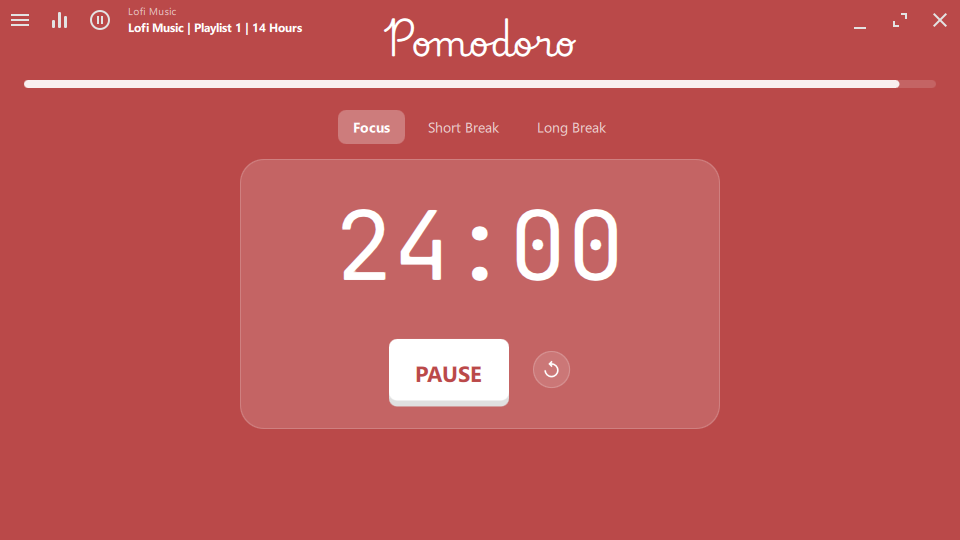
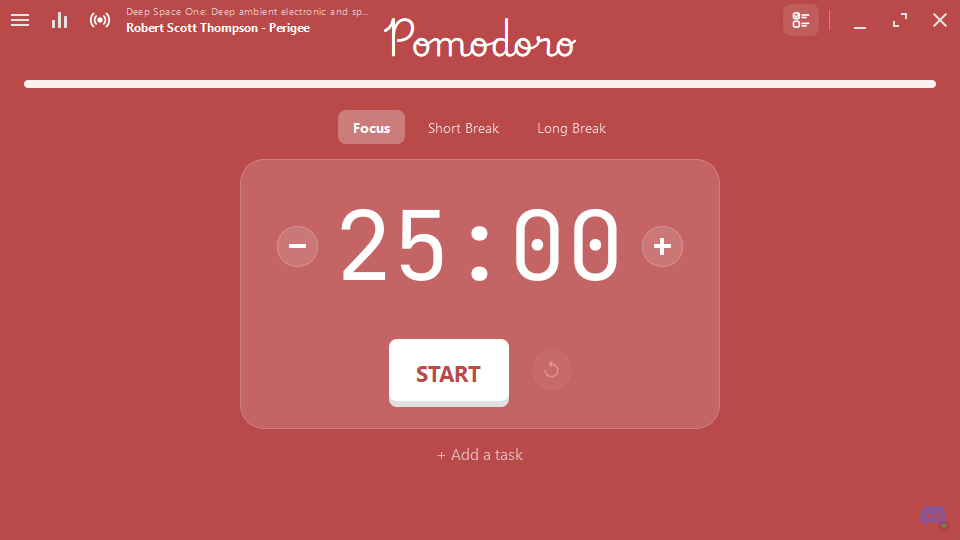
Updating readme

diff --git a/README.md b/README.md
@@ -6,9 +6,47 @@
 
 Built with C++17 and Qt 6 (Qt Quick / QML). One binary, no runtime dependencies beyond Qt.
 
+[![Latest release](https://img.shields.io/github/v/release/elhiba/pomodoro?label=version)](../../releases/latest)
+[![Downloads](https://img.shields.io/github/downloads/elhiba/pomodoro/total)](../../releases)
+[![CI](https://github.com/elhiba/pomodoro/actions/workflows/ci.yml/badge.svg?branch=main)](../../actions/workflows/ci.yml)
+![Platforms](https://img.shields.io/badge/platforms-Windows%20%7C%20Linux%20%7C%20macOS-informational)
+
+**[⬇ Download the latest version](../../releases/latest)**
+
 ![Pomodoro](docs/screenshot.png)
 
 </div>
+
+## What's new
+
+### v1.4.0
+
+- **The app updates itself.** No button to press and no browser: a new release downloads
+  in the background, is checked against its published SHA-256 checksum, and installs as
+  soon as the timer is stopped — never in the middle of a session — then the app reopens.
+  It works for every download: the Windows installer, the portable zip, the AppImage and
+  the macOS app. Pomodoro also looks for updates every six hours while it runs, not only
+  at start-up. (Coming from v1.3.0 or older, install this one update by hand; every
+  update after it is automatic.)
+- **Spotify plays on Linux.** The AppImage brings the sound library the built-in player
+  needs and uses PulseAudio or PipeWire, so it no longer stays silent.
+- **Discord from Flatpak or Snap** is found on Linux, so the Discord status works there too.
+
+### v1.3.0
+
+- Music panel: radio, YouTube and Spotify in one place, with search, playlists, skip and a
+  seek bar with a soft wave. Add your own radio stations.
+- Spotify plays inside the app with a built-in player (Windows and Linux), with Liked
+  Songs, "play next" and a heart to like a song.
+- Discord status showing what the timer is doing.
+- Colours for each session, animated digits (rolling, flip, soft) and a font for the
+  whole app; settings folded into sections.
+- Music follows your default audio output, lowers itself for the alarm, and shows its
+  cover plus next / previous in the system's media controls.
+- An optional task list, a floating mini timer while minimised, session length set right
+  on the home screen, and updates offered from inside the app.
+
+Every release and its full notes: [Releases](../../releases).
 
 ## Features
 
@@ -20,27 +58,40 @@ Built with C++17 and Qt 6 (Qt Quick / QML). One binary, no runtime dependencies 
 - **Task list** (optional) — note what you want to get done, pick the task you are
   working on, and every focus session you finish counts towards it. The current task
   shows under the timer. Turn it off in the settings if you do not want it.
-- **Mini timer** — minimise the window and a small always-on-top timer takes its place;
-  drag it anywhere, click it to come back.
-- **Music while you work**, from the source you prefer:
-  - **Radio** — a built-in list of lo-fi and ambient stations;
-  - **YouTube** — any video, mix or live stream, played as audio through
-    [yt-dlp](https://github.com/yt-dlp/yt-dlp) (the app offers to download it for you);
-  - **Spotify** — connect your account and Pomodoro plays, pauses and shows what is on in
-    your own Spotify app (Spotify allows this on Premium only);
-  - **Link** — any Icecast, Shoutcast or HTTP audio stream.
+- **Mini timer** — minimise the window and a small always-on-top timer takes its place,
+  with the same digit animation as the main one; drag it anywhere, click it to come back.
+  The minimised window can stay out of Alt+Tab.
+- **Music while you work**, from its own panel, with the source you prefer:
+  - **Radio** — a built-in list of lo-fi and ambient stations, plus your own: paste an
+    Icecast, Shoutcast or HTTP stream (or an `.m3u` / `.pls`) and the app checks that it
+    really plays audio and names it before it joins the list;
+  - **YouTube** — search for videos and playlists, or paste any video, mix or live stream,
+    played as audio through [yt-dlp](https://github.com/yt-dlp/yt-dlp) (the app offers to
+    download it for you and keeps it up to date);
+  - **Spotify** — on Windows and Linux the release ships a built-in player, so Spotify
+    plays inside Pomodoro: Liked Songs, picks, playlists and albums you paste, with a
+    queue and a like button. Without it, Pomodoro remote-controls your own Spotify app.
+    Either way Spotify only allows it on Premium.
 
-  Streams reconnect on their own with exponential backoff if the connection drops, and
-  the station and current track are shown next to the play button.
-- **OS media controls** — the stream shows up as a real media source in the system:
-  Windows **System Media Transport Controls**, **MPRIS** on Linux (GNOME, KDE,
-  `playerctl`), and the **Now Playing** centre on macOS. Play, pause and the keyboard's
-  media keys all work.
+  A seek bar with a soft wave shows where you are in a song. Streams reconnect on their
+  own if the connection drops, the music steps aside while the alarm plays, and it
+  follows your default audio output, so plugging in headphones just works.
+- **OS media controls** — the music shows up as a real media source in the system, with
+  its cover art: Windows **System Media Transport Controls**, **MPRIS** on Linux (GNOME,
+  KDE, `playerctl`), and the **Now Playing** centre on macOS. Play, pause, next, previous
+  and the keyboard's media keys all work.
+- **Discord status** (optional) — while Discord is open, your profile shows what the timer
+  is doing, how long is left, and the music if you want it. Nothing to sign in to.
 - **Session statistics** — focus minutes and pomodoros today, focus time over the last
   seven days, an all-time total, a daily streak and a seven-day chart. Stored locally.
-- **Desktop notifications** — a notification and an alarm sound when a session ends.
+- **Alarm and notifications** — an alarm with its own volume when a session ends, plus a
+  desktop notification on Linux.
+- **Your look** — a colour for each kind of session, how the digits change (still,
+  rolling, flip or soft), and any installed font for the whole app.
 - **System tray** — close hides the app to the tray with the timer still running; the
   tray menu and icon bring it back. A single instance is enforced.
+- **Updates itself** — new releases download and install on their own, never in the
+  middle of a session (see [Updates](#updates)).
 - **Custom frameless window** — a compact, resizable landscape layout with a colour that
   follows the current mode.
 
@@ -62,7 +113,9 @@ with its icon, by typing its name. On Linux the AppImage writes a desktop entry 
 `~/.local/share/applications` the first time it runs, so it is searchable without being
 unpacked anywhere; delete that file to remove it.
 
-**Updates** install themselves. The app checks for a new release when it starts and
+### Updates
+
+Updates install themselves. The app checks for a new release when it starts and
 every six hours after that; when one exists it downloads it in the background, checks it
 against the SHA-256 checksum GitHub publishes for it, and installs it as soon as the timer
 is stopped — a running or paused session is never interrupted — then reopens. Quitting
@@ -171,8 +224,9 @@ ctest --test-dir build --output-on-failure
 
 ### Releasing
 
-Continuous integration builds and tests every push on Linux, Windows and macOS. Pushing
-a version tag builds the packages and publishes them on a GitHub Release:
+Continuous integration builds and tests every push to `main` and every pull request on
+Linux, Windows and macOS. Pushing a version tag builds the packages and publishes them on
+a GitHub Release, which every installed copy then picks up and installs by itself:
 
 ```bash
 git tag v1.2.3
@@ -185,6 +239,8 @@ number to edit in the source before tagging.
 ## Tech stack
 
 C++17 · Qt 6 (Qt Quick / QML, Multimedia, Network, DBus, Widgets) · CMake · GitHub Actions.
+Music through yt-dlp and go-librespot, both fetched and checked against published SHA-256
+checksums.
 
 The UI is written in QML; all logic lives in C++ types exposed to QML. Platform
 integration is handled natively per OS — SMTC via the WinRT ABI on Windows, MPRIS over
